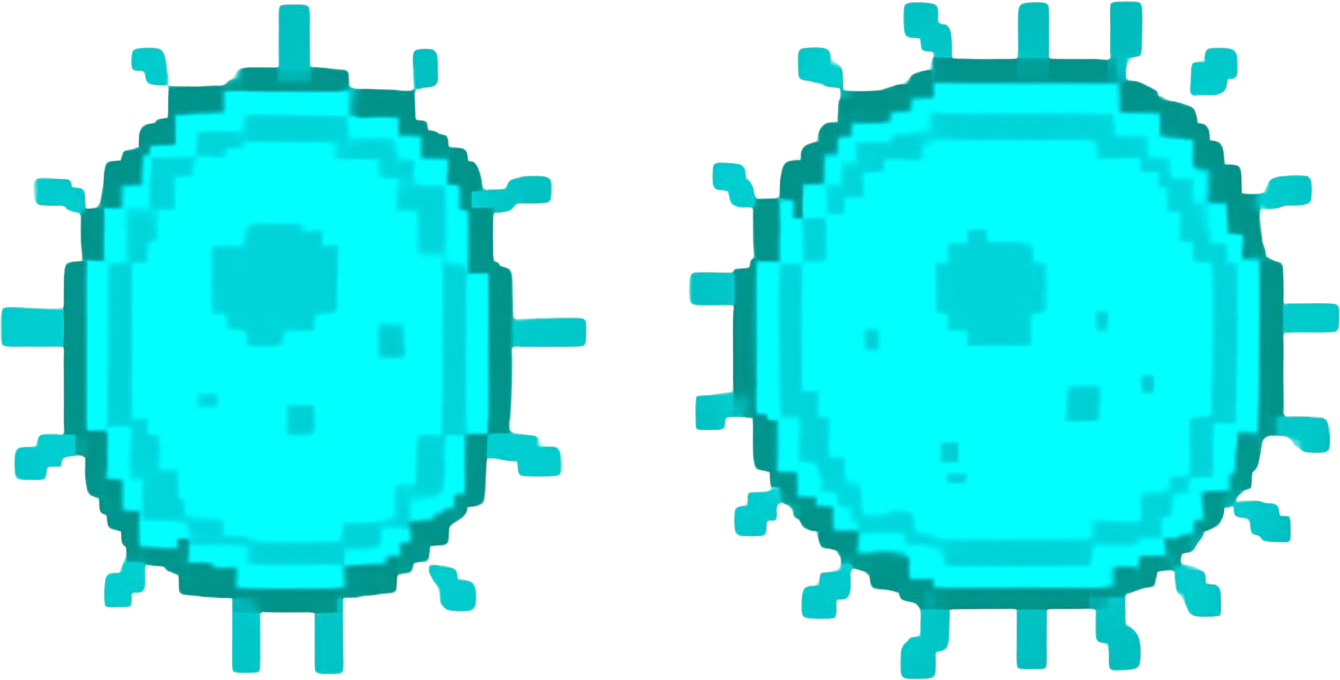
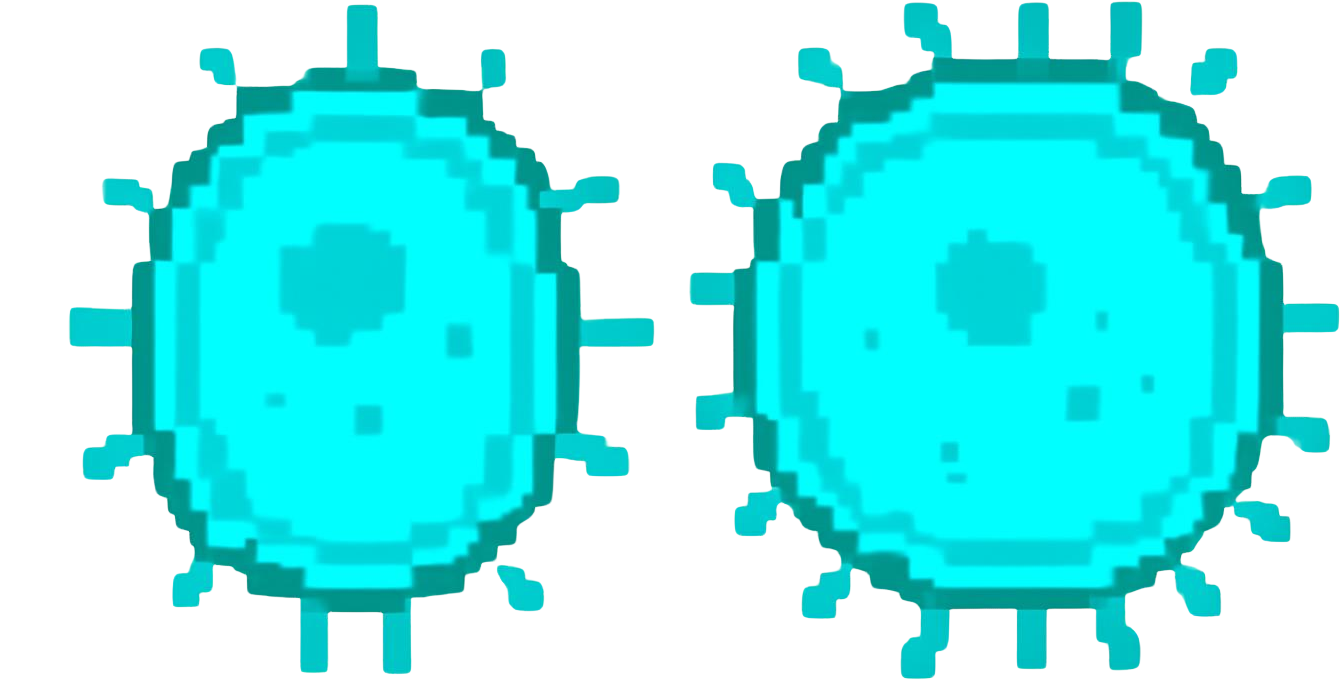
update berubah gambar prokariotik sprite

Changed region(s): [[0.0, 0.0, 0.4896, 1.0], [0.9179, 0.7103, 0.9485, 0.7412], [0.6731, 0.9882, 0.7037, 1.0]]

diff --git a/js/scenes/boot-scene.js b/js/scenes/boot-scene.js
@@ -39,22 +39,22 @@ export default class BootScene extends Phaser.Scene {
         this.load.image('virus', 'assets/images/virus/one-virus-magenta.png');
         this.load.image('wbc', 'assets/images/white-blood-cell/one-white-blood-cell.png');
         this.load.image('bacteria', 'assets/images/bacteria/one-bacteria-green.png');
-        this.load.image('wbcMisi1Image', 'assets/images/white-blood-cell/wbc-misi1.jpg'); // ✅ BARU
+        this.load.image('wbcMisi1Image', 'assets/images/white-blood-cell/wbc-misi1.jpg');
         this.load.image('bgGameplay', 'assets/images/scene-evocell/deep-sea.png');
 
-                // ASET CELL DODGER V2
+        // ASET CELL DODGER V2
         this.load.image('dnaCoin', 'assets/images/cell-dodger/helixdnakoin.png');
         this.load.image('bossMimivirus', 'assets/images/cell-dodger/mimivirus.png');
         this.load.image('bossPandoravirus', 'assets/images/cell-dodger/pandoravirus.png');
         this.load.image('bossThiomargarita', 'assets/images/cell-dodger/whitebacteriapearl.png');
         this.load.image('epulo', 'assets/images/cell-dodger/epulo.png');
         
-        // ✅ BACKGROUND VIRUS - Pastikan path benar
+        // BACKGROUND VIRUS
         this.load.image('bgVirus', 'assets/images/scene-evocell/human-imune-system.png');
         this.load.image('bacteriaBatang', 'assets/images/bacteria/bacteria-batang.png');
-this.load.image('bacteriaSpiral', 'assets/images/bacteria/bacteria-spiral.png');
-this.load.image('bakteriRantai', 'assets/images/bacteria/bakteri-rantai.png');
-this.load.image('bakteriBulat', 'assets/images/bacteria/bakteri-bulat.png');
+        this.load.image('bacteriaSpiral', 'assets/images/bacteria/bacteria-spiral.png');
+        this.load.image('bakteriRantai', 'assets/images/bacteria/bakteri-rantai.png');
+        this.load.image('bakteriBulat', 'assets/images/bacteria/bakteri-bulat.png');
         
         // Card & Button
         this.load.image('cardRock', 'assets/images/main-menu-evocell/card-rock.png');
@@ -63,25 +63,19 @@ this.load.image('bakteriBulat', 'assets/images/bacteria/bakteri-bulat.png');
         this.load.image('resume-btn', 'assets/images/main-menu-evocell/resume-btn.png');
         this.load.image('exit-btn', 'assets/images/main-menu-evocell/exit-btn.png');
 
-        // ... kode yang sudah ada ...
+        // ICON DEVICE SELECTOR
+        this.load.image('pcIcon', 'assets/images/main-menu-evocell/pc-ikon.png');
+        this.load.image('laptopIcon', 'assets/images/main-menu-evocell/laptop-ikon.png');
+        this.load.image('mobileIcon', 'assets/images/main-menu-evocell/hp-ikon.png');
 
-// ✅ ICON DEVICE SELECTOR
-this.load.image('pcIcon', 'assets/images/main-menu-evocell/pc-ikon.png');
-this.load.image('laptopIcon', 'assets/images/main-menu-evocell/laptop-ikon.png');
-this.load.image('mobileIcon', 'assets/images/main-menu-evocell/hp-ikon.png');
+        // ICON HUD KONTROL
+        this.load.image('wasdIcon', 'assets/images/main-menu-evocell/wasd-ikon.png');
+        this.load.image('cursorIcon', 'assets/images/main-menu-evocell/cursor-ikon.png');
+        this.load.image('autoLockIcon', 'assets/images/main-menu-evocell/auto-lock.png');
 
-// ✅ ICON HUD KONTROL
-this.load.image('wasdIcon', 'assets/images/main-menu-evocell/wasd-ikon.png');
-this.load.image('cursorIcon', 'assets/images/main-menu-evocell/cursor-ikon.png');
-this.load.image('autoLockIcon', 'assets/images/main-menu-evocell/auto-lock.png');
-
-// ✅ Tambahkan ini untuk load musik
-    this.load.audio('mainMenuMusic', 'assets/audio/music/glass_trench.mp3');
-    // Di boot-scene.js -> preload()
-this.load.audio('wbcMusic', 'assets/audio/music/sentinel_at_the_membrane.mp3');
-
-
-
+        // MUSIK
+        this.load.audio('mainMenuMusic', 'assets/audio/music/glass_trench.mp3');
+        
     }
     
     create() {

diff --git a/js/scenes/menu-scene.js b/js/scenes/menu-scene.js
@@ -66,6 +66,7 @@ export default class MenuScene extends Phaser.Scene {
                 repeat: -1
             });
         }
+        
 
         this.add.image(width/2, height/2, 'bgMain');
         const logo = this.add.image(width/2, height/4 - 30, 'logo');
